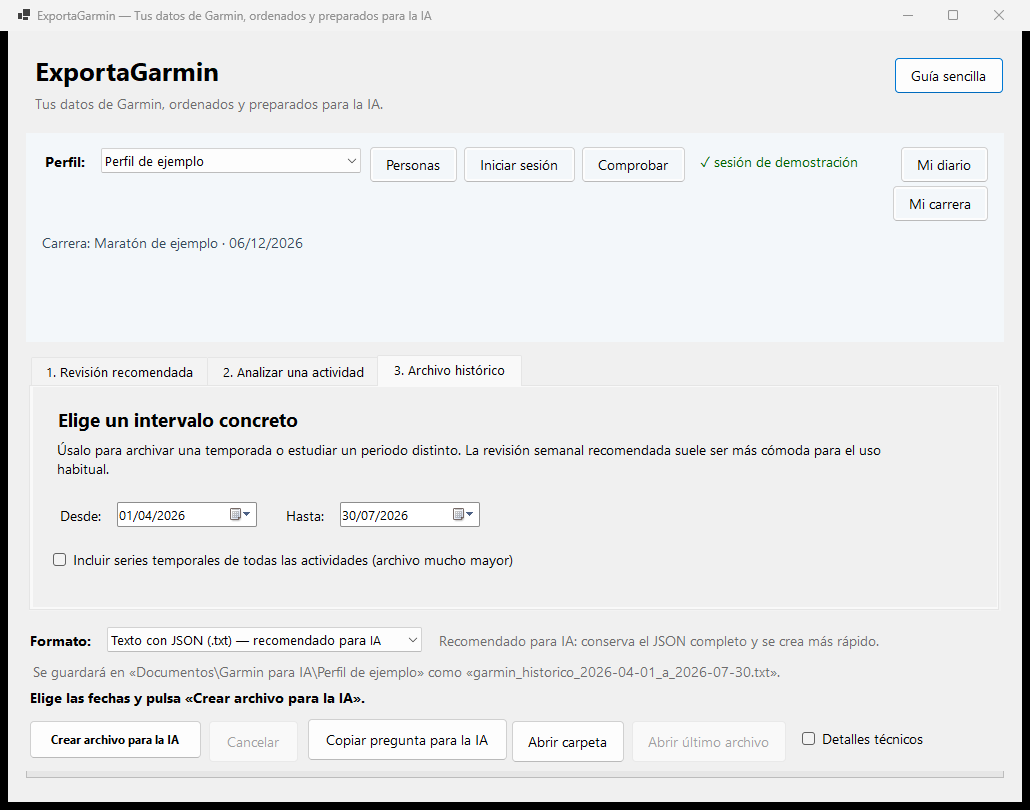
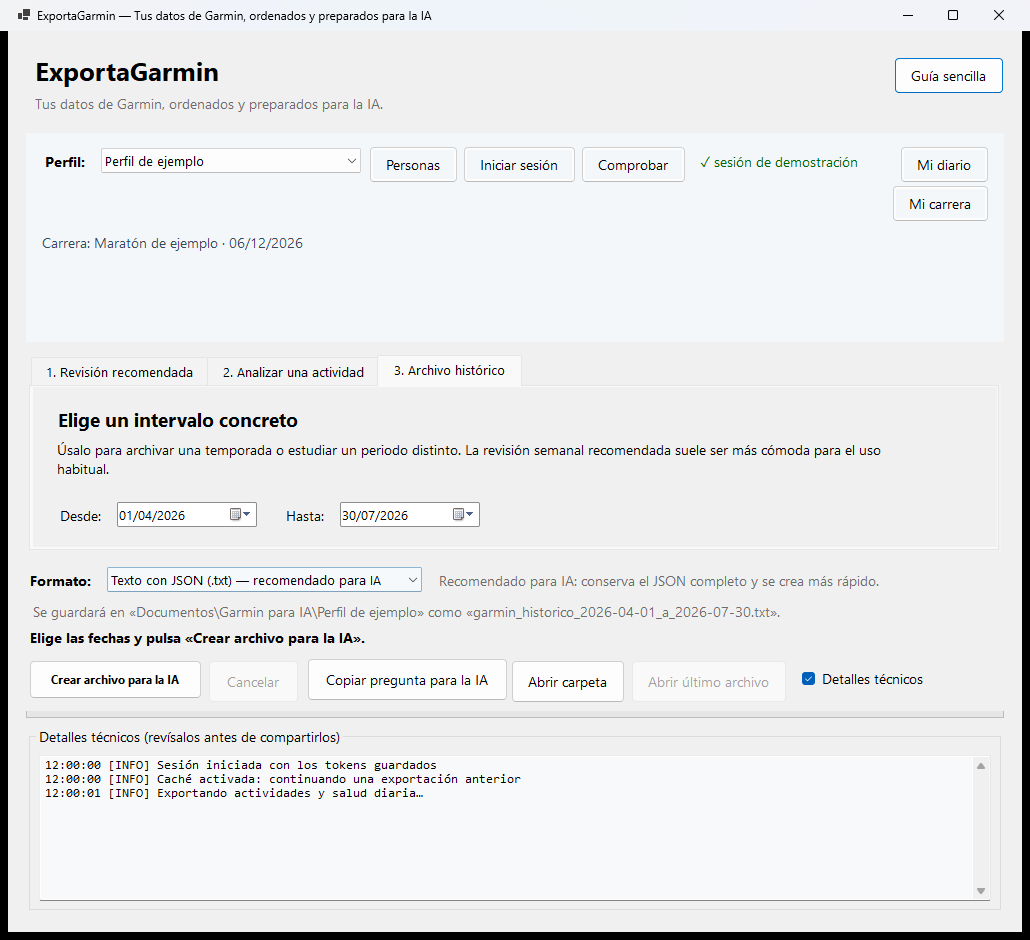
Corrige los acentos y muestra el progreso por defecto

diff --git a/GarminDataExport.Launcher/MainForm.cs b/GarminDataExport.Launcher/MainForm.cs
@@ -1251,6 +1251,8 @@ internal sealed class MainForm : Form
             UseShellExecute = false,
             RedirectStandardOutput = true,
             RedirectStandardError = true,
+            StandardOutputEncoding = Encoding.UTF8,
+            StandardErrorEncoding = Encoding.UTF8,
             CreateNoWindow = true,
         };
         startInfo.Environment["PYTHONUNBUFFERED"] = "1";
@@ -1867,7 +1869,7 @@ internal sealed class MainForm : Form
         }
 
         _settings = storedSettings;
-        // Migración única: las instalaciones anteriores recomendaban Excel.
+        // Migraciones únicas para mejorar los valores iniciales de versiones anteriores.
         // Después de guardar la versión actual, las elecciones del usuario se respetan.
         if (!_settings.ApplyMigrations())
             return;
@@ -2020,6 +2022,13 @@ internal sealed class MainForm : Form
         _status.Text = _readmePreviewMode == "informe"
             ? "Elige las fechas y pulsa «Crear archivo para la IA»."
             : "Todo preparado. Pulsa «Crear archivo para la IA».";
+        _showLog.Checked = true;
+        _logBox.Text =
+            "12:00:00 [INFO] Sesión iniciada con los tokens guardados" +
+            Environment.NewLine +
+            "12:00:00 [INFO] Caché activada: continuando una exportación anterior" +
+            Environment.NewLine +
+            "12:00:01 [INFO] Exportando actividades y salud diaria…";
         RefreshOutputPreview();
     }
 

diff --git a/GarminDataExport.Launcher/Program.cs b/GarminDataExport.Launcher/Program.cs
@@ -1,4 +1,5 @@
 using System.Diagnostics;
+using System.Text;
 using GarminDataExport.Launcher.Services;
 
 namespace GarminDataExport.Launcher;
@@ -69,6 +70,8 @@ internal static class Program
             UseShellExecute = false,
             RedirectStandardOutput = true,
             RedirectStandardError = true,
+            StandardOutputEncoding = Encoding.UTF8,
+            StandardErrorEncoding = Encoding.UTF8,
             CreateNoWindow = true,
         };
         backend.ApplySafePythonEnvironment(startInfo.Environment);
@@ -81,7 +84,13 @@ internal static class Program
         var stderr = process.StandardError.ReadToEndAsync();
         process.WaitForExit();
         Task.WaitAll(stdout, stderr);
-        return process.ExitCode;
+        if (process.ExitCode != 0)
+            return process.ExitCode;
+        var output = stdout.GetAwaiter().GetResult();
+        return output.Contains("Días de datos diarios", StringComparison.Ordinal) &&
+               !output.Contains("DÃ", StringComparison.Ordinal)
+            ? 0
+            : 5;
     }
 
     private static void ShowProtectedStorageError(Exception error)

diff --git a/GarminDataExport.Launcher/Models/LauncherSettings.cs b/GarminDataExport.Launcher/Models/LauncherSettings.cs
@@ -2,7 +2,7 @@ namespace GarminDataExport.Launcher.Models;
 
 internal sealed class LauncherSettings
 {
-    public const int CurrentSchemaVersion = 1;
+    public const int CurrentSchemaVersion = 2;
 
     public int SchemaVersion { get; set; }
     public bool FirstRunCompleted { get; set; }
@@ -12,14 +12,17 @@ internal sealed class LauncherSettings
     public DateTime StartDate { get; set; } = DateTime.Today.AddDays(-30);
     public DateTime EndDate { get; set; } = DateTime.Today;
     public bool IncludeActivityDetails { get; set; }
-    public bool ShowTechnicalLog { get; set; }
+    public bool ShowTechnicalLog { get; set; } = true;
 
     public bool ApplyMigrations()
     {
         if (SchemaVersion >= CurrentSchemaVersion)
             return false;
 
-        OutputFormat = "txt";
+        if (SchemaVersion < 1)
+            OutputFormat = "txt";
+        if (SchemaVersion < 2)
+            ShowTechnicalLog = true;
         SchemaVersion = CurrentSchemaVersion;
         return true;
     }

diff --git a/GarminDataExport.Launcher/Services/BackendCapabilities.cs b/GarminDataExport.Launcher/Services/BackendCapabilities.cs
@@ -1,4 +1,5 @@
 using System.Diagnostics;
+using System.Text;
 using System.Text.RegularExpressions;
 
 namespace GarminDataExport.Launcher.Services;
@@ -41,6 +42,8 @@ internal sealed class BackendCapabilities
                 UseShellExecute = false,
                 RedirectStandardOutput = true,
                 RedirectStandardError = true,
+                StandardOutputEncoding = Encoding.UTF8,
+                StandardErrorEncoding = Encoding.UTF8,
                 CreateNoWindow = true,
             };
             foreach (var variable in new[]

diff --git a/GarminDataExport.Launcher/Services/SessionValidator.cs b/GarminDataExport.Launcher/Services/SessionValidator.cs
@@ -1,4 +1,5 @@
 using System.Diagnostics;
+using System.Text;
 using GarminDataExport.Launcher.Models;
 
 namespace GarminDataExport.Launcher.Services;
@@ -24,6 +25,8 @@ internal static class SessionValidator
             UseShellExecute = false,
             RedirectStandardOutput = true,
             RedirectStandardError = true,
+            StandardOutputEncoding = Encoding.UTF8,
+            StandardErrorEncoding = Encoding.UTF8,
             CreateNoWindow = true,
         };
         backend.ApplySafePythonEnvironment(startInfo.Environment);

diff --git a/GarminDataExport.Launcher/Services/SessionLoginLauncher.cs b/GarminDataExport.Launcher/Services/SessionLoginLauncher.cs
@@ -80,6 +80,7 @@ internal static class SessionLoginLauncher
                 "set \"PYTHONDONTWRITEBYTECODE=1\"",
                 "set \"PYTHONNOUSERSITE=1\"",
                 "set \"PYTHONUTF8=1\"",
+                "set \"PYTHONIOENCODING=utf-8\"",
                 $"{Quote(backend.PythonPath)} {Quote(backend.ScriptPath)} --login --force-login --ignore-credential-env --tokenstore {Quote(tokenStore)}",
                 "set \"GARMIN_LOGIN_EXIT_CODE=%ERRORLEVEL%\"",
                 "echo.",

diff --git a/GarminDataExport.Launcher/Services/BackendPaths.cs b/GarminDataExport.Launcher/Services/BackendPaths.cs
@@ -67,6 +67,7 @@ internal sealed class BackendPaths
         environment["PYTHONDONTWRITEBYTECODE"] = "1";
         environment["PYTHONNOUSERSITE"] = "1";
         environment["PYTHONUTF8"] = "1";
+        environment["PYTHONIOENCODING"] = "utf-8";
         foreach (var variable in new[]
                  {
                      "GARMIN_EMAIL",

diff --git a/Program.cs b/Program.cs
@@ -33,6 +33,7 @@ var psi = new ProcessStartInfo
 psi.Environment["PYTHONDONTWRITEBYTECODE"] = "1";
 psi.Environment["PYTHONNOUSERSITE"] = "1";
 psi.Environment["PYTHONUTF8"] = "1";
+psi.Environment["PYTHONIOENCODING"] = "utf-8";
 psi.Environment.Remove("PYTHONHOME");
 psi.Environment.Remove("PYTHONPATH");
 

diff --git a/README.md b/README.md
@@ -39,7 +39,7 @@ Necesitas Windows 11, conexión a Internet y una cuenta de Garmin Connect.
 
 1. Abre la página
    [Última versión de ExportaGarmin](https://github.com/zarzawan/ExportaGarmin/releases/latest).
-2. En **Assets**, descarga `ExportaGarmin-3.3.0-Windows-x64.zip`.
+2. En **Assets**, descarga `ExportaGarmin-3.3.1-Windows-x64.zip`.
 3. No descargues **Source code**: esos enlaces son para programadores.
 4. Abre la carpeta **Descargas**.
 5. Pulsa con el botón derecho sobre el ZIP y elige **Extraer todo**.
@@ -68,11 +68,11 @@ La descarga incluye un archivo `.sha256`. Para comprobar su integridad, abre
 PowerShell dentro de Descargas y ejecuta:
 
 ```powershell
-Get-FileHash .\ExportaGarmin-3.3.0-Windows-x64.zip -Algorithm SHA256
+Get-FileHash .\ExportaGarmin-3.3.1-Windows-x64.zip -Algorithm SHA256
 ```
 
 El resultado debe coincidir con el contenido de
-`ExportaGarmin-3.3.0-Windows-x64.zip.sha256`.
+`ExportaGarmin-3.3.1-Windows-x64.zip.sha256`.
 
 </details>
 
@@ -99,6 +99,9 @@ de GitHub o un archivo del proyecto.
 5. Cuando termine, pulsa **Abrir archivo** o **Abrir carpeta**.
 6. Sube manualmente el archivo a la IA que prefieras.
 7. Pulsa **Copiar pregunta para la IA** y pégala en la conversación.
+
+**Detalles técnicos** aparece activado para que puedas ver el progreso. Puedes
+ocultarlo si no lo necesitas; no compartas ese registro sin revisarlo.
 
 El programa propone 16 semanas para maratón y otros objetivos, y 12 para media
 maratón. Si todavía no has indicado una carrera, utiliza también 16 semanas.
@@ -477,7 +480,7 @@ dotnet build GarminDataExport.slnx --no-restore
 Crear localmente la misma descarga portable que publica GitHub:
 
 ```powershell
-.\scripts\Build-PortableRelease.ps1 -Version 3.3.0
+.\scripts\Build-PortableRelease.ps1 -Version 3.3.1
 ```
 
 El resultado queda en `artifacts\` e incluye el ZIP y su SHA-256. GitHub

diff --git a/AGENTS.md b/AGENTS.md
@@ -372,6 +372,11 @@ Los `.pyc` de la descarga se compilan con Python 3.11. El código fuente
 legible permanece separado y se obtiene desde el repositorio público indicado
 en `CODIGO_FUENTE.txt`.
 
+El registro técnico se muestra por defecto, incluida una migración única de
+preferencias anteriores. Todos los procesos redirigidos deben leer la salida
+de Python como UTF-8 para conservar correctamente el español. El usuario puede
+ocultar después el registro y su elección debe persistir.
+
 `scripts/Build-PortableRelease.ps1` descarga el runtime oficial fijado de
 Python, verifica su SHA-256, instala el lock dentro del paquete, publica .NET
 como `win-x64` autocontenido, ejecuta el diagnóstico y crea el ZIP y su
@@ -418,7 +423,7 @@ capturar una ventana asociada a un perfil real.
 dotnet restore GarminDataExport.slnx
 dotnet build GarminDataExport.slnx --no-restore
 dotnet run --project GarminDataExport.csproj -- --help
-.\scripts\Build-PortableRelease.ps1 -Version 3.3.0
+.\scripts\Build-PortableRelease.ps1 -Version 3.3.1
 ```
 
 También:
